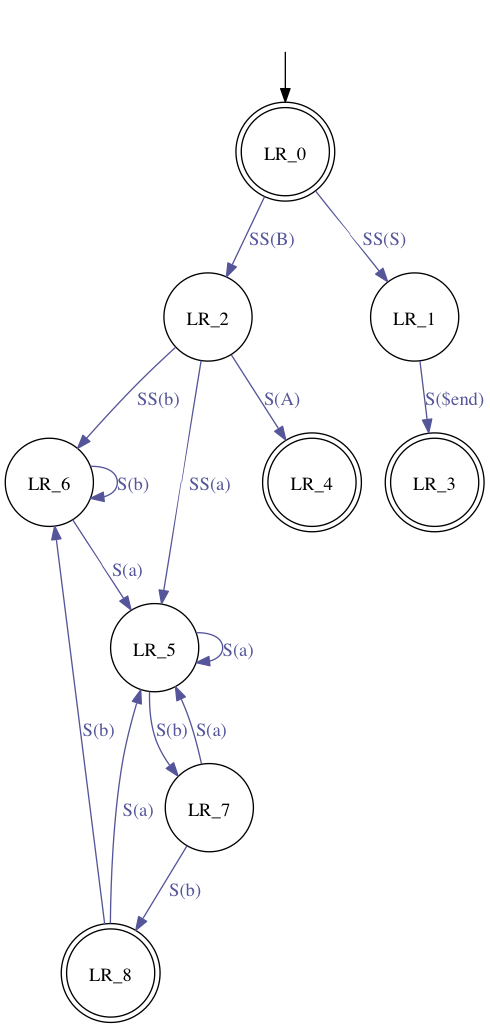
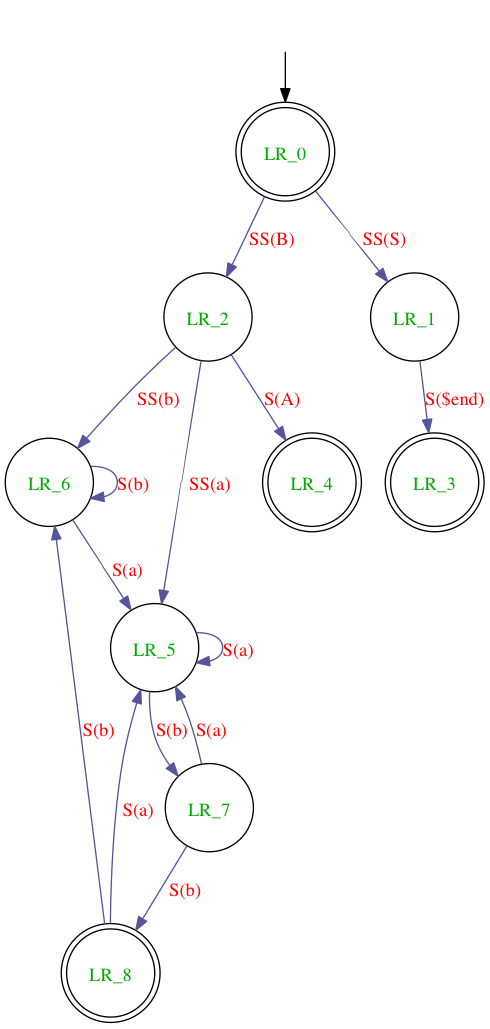
Styles added for nodes

diff --git a/model/model.js b/model/model.js
@@ -87,10 +87,18 @@ function getList(yy, LHS, RHS) {
 See readNodeOrGroup in grammar
 
 Must be able to return Group as wlel..if NAME matches...
+
+STYLE will always be updated on last occurance (ie. 
+dashed a1
+
+dotted a1>b1 
+
+node a1 will be dotted instead of being dashed
 */
-function getNode(yy, name) {
+function getNode(yy, name,style) {
     debug(" getNode " + name);
     if (name instanceof Node) {
+        if (style) name.setStyle(style);
         return name;
     }
     if (name instanceof Array) {
@@ -102,6 +110,7 @@ function getNode(yy, name) {
         for (var i in container.OBJECTS) {
             var o = container.OBJECTS[i];
             if (o instanceof Node && o.getName() == name) {
+                if (style) o.setStyle(style);
                 return o;
             }
             if (o instanceof Group) {
@@ -114,9 +123,13 @@ function getNode(yy, name) {
     if (search != undefined) return search;
     debug(" Create new node");
     var n = new Node(name, getGraphRoot(yy).getCurrentShape());
+    if (style) n.setStyle(style);
     
     getDefaultAttribute(yy,'nodecolor',function(color){
     	n.setColor(color);
+    });
+    getDefaultAttribute(yy,'nodetextcolor',function(color){
+    	n.setTextColor(color);
     });
     return pushObject(yy, n);
 }
@@ -224,6 +237,9 @@ function getLink(yy, linkType, l, r, label, color) {
     var l = new Link(linkType, l, r);
     getDefaultAttribute(yy,'linkcolor',function(color){
     	l.setColor(color);
+    });
+    getDefaultAttribute(yy,'linktextcolor',function(color){
+    	l.setTextColor(color);
     });
     if (label != undefined) l.setLabel(label);
     if (color != undefined) l.setColor(color);

diff --git a/generators/digraph.js b/generators/digraph.js
@@ -11,13 +11,17 @@ function digraph(yy) {
     	    return prefix+msg;
     }
 	var processANode = function(o) {
-        var s = getAttrFmt(o, 'color', ',fillcolor="{0}",style="filled"') +
+		var fillColor=getAttrFmt(o, 'color', ',fillcolor="{0}"');
+		var filledStyle=getAttrFmt(o,'color','filled').trim();
+		var styleStyle=getAttrFmt(o, 'style', '{0}').trim();
+		if (styleStyle!="" && filledStyle!="") filledStyle=filledStyle+",";
+		var fillAndStyle=getAttrFmt(o,['color','style'],
+				fillColor+',style="'+filledStyle+styleStyle+'"');
+        var s = fillAndStyle+
             getAttrFmt(o, 'image', ',image="icons{0}"') +
             getAttrFmt(o, 'textcolor', ',fontcolor="{0}"')+
             getShape(shapes.digraph, o.shape, ',shape="{0}"') +
-            getAttrFmt(o, 'style', ',style={0}') +
-        /*getAttrFmt(o,'shape',',shape="{0}"')+*/
-        getAttrFmt(o, 'label', ',label="{0}"');
+            getAttrFmt(o, 'label', ',label="{0}"');
         if (s.trim() != "")
             s = "[" + s.trim().substring(1) + "]";
         yy.result(indent( o.getName() + s + ';'));
